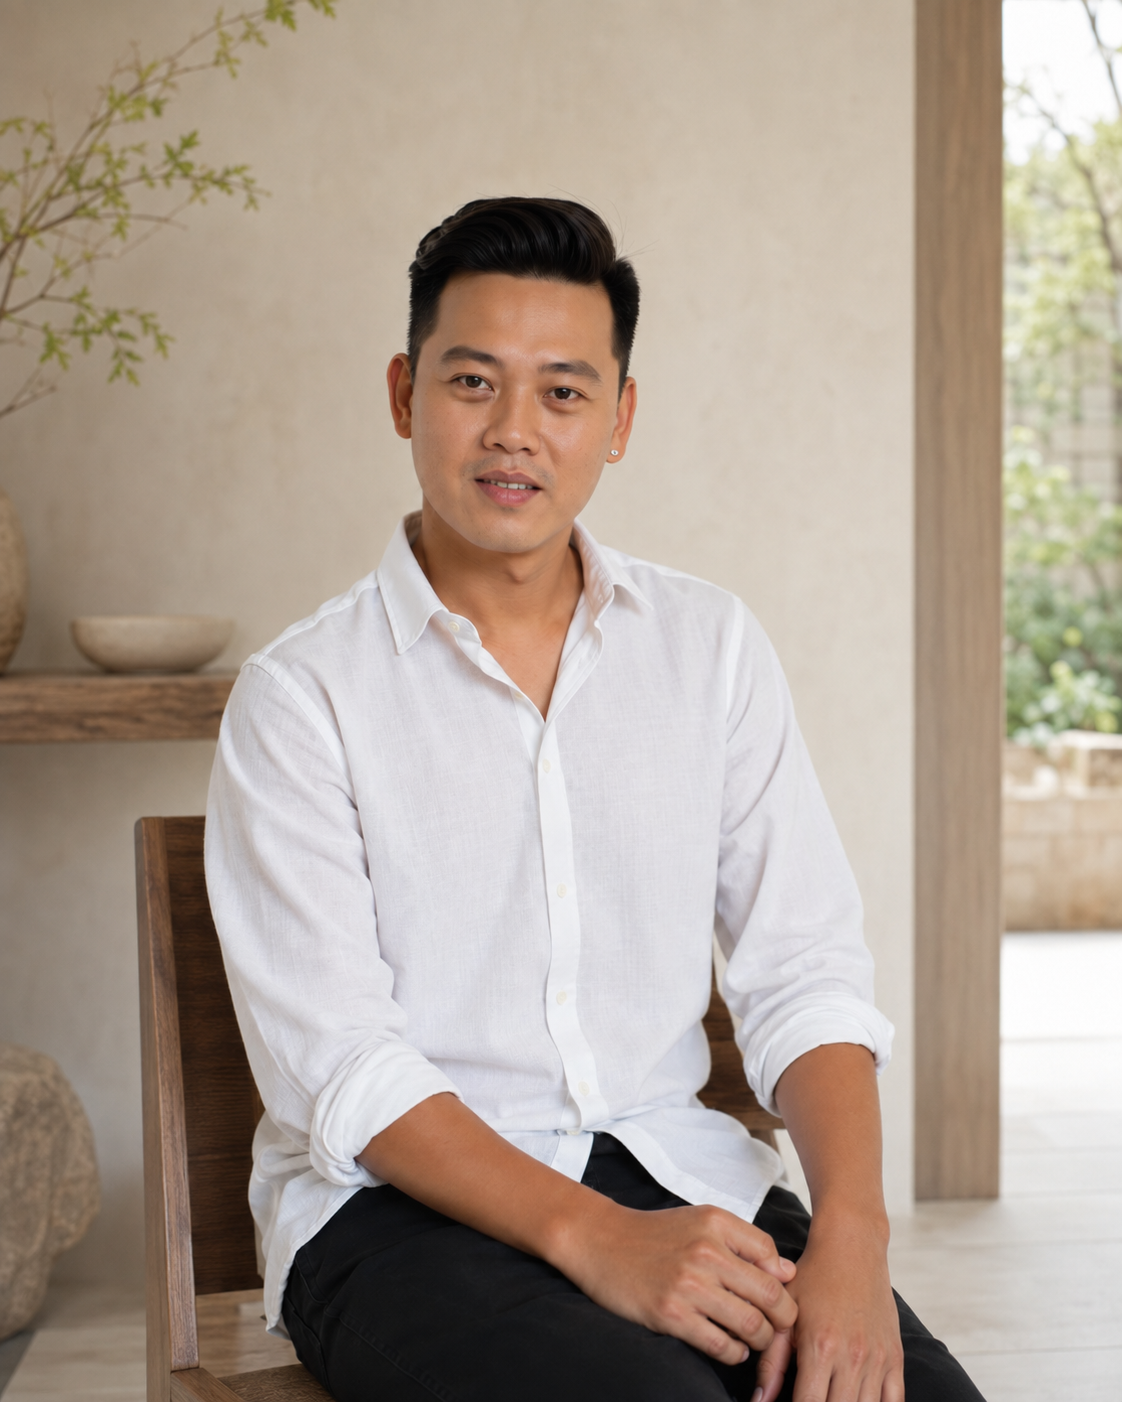
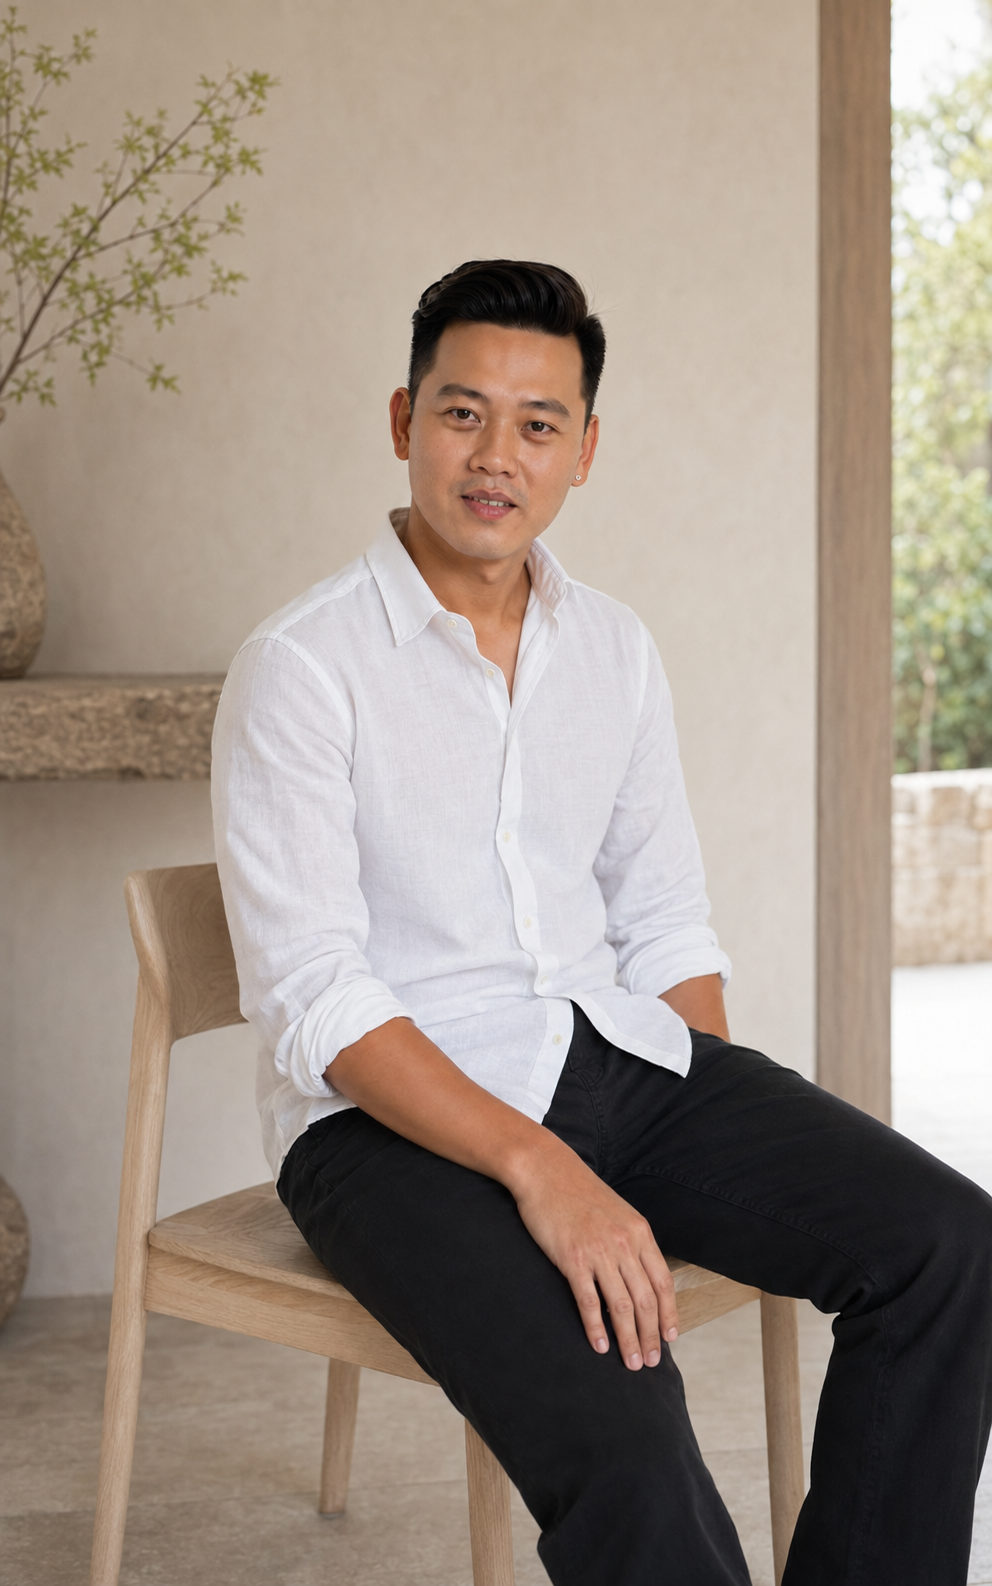
feat: integrate phuong-phap movement imagery

diff --git a/src/styles/phuong-phap.module.css b/src/styles/phuong-phap.module.css
@@ -25,6 +25,7 @@
 
 .heroSurface::before,
 .chillAtmosphere::before,
+.challengeAtmosphere::before,
 .realityAtmosphere::before {
   position: absolute;
   z-index: 0;
@@ -100,14 +101,15 @@
 }
 
 .chillAtmosphere,
+.challengeAtmosphere,
 .realityAtmosphere {
-  --phuong-phap-chill-field-image: url("/images/phuong-phap/02-chill-atmosphere.png");
   position: relative;
   isolation: isolate;
   overflow: hidden;
 }
 
 .chillAtmosphere {
+  --phuong-phap-chill-field-image: url("/images/phuong-phap/02-chill-atmosphere.png");
   background:
     radial-gradient(ellipse at 22% 36%, color-mix(in srgb, var(--essence-white-2026) 44%, transparent) 0, transparent 34%),
     linear-gradient(
@@ -122,6 +124,7 @@
 }
 
 .challengeAtmosphere {
+  --phuong-phap-challenge-field-image: url("/images/phuong-phap/07-thach-thuc-atmosphere.png");
   background:
     radial-gradient(ellipse at 84% 42%, color-mix(in srgb, var(--essence-ivory-2026) 30%, transparent) 0, transparent 32%),
     linear-gradient(
@@ -135,29 +138,55 @@
     );
 }
 
-.chillAtmosphere::before {
-  top: -8rem;
-  left: max(-20vw, -18rem);
-  width: min(88vw, 76rem);
-  height: min(90vw, 72rem);
-  opacity: 0.54;
-  background-image: var(--phuong-phap-chill-field-image);
-  background-position: center center;
+.challengeAtmosphere::before {
+  top: -6rem;
+  right: max(-19vw, -17rem);
+  width: min(101vw, 88rem);
+  height: min(102vw, 84rem);
+  opacity: 0.42;
+  background-image: var(--phuong-phap-challenge-field-image);
+  background-position: 57% 49%;
   -webkit-mask-image: radial-gradient(
-    ellipse 48% 46% at 52% 42%,
+    ellipse 43% 53% at 66% 44%,
     #000 0%,
-    #000 26%,
-    rgba(0, 0, 0, 0.78) 42%,
-    rgba(0, 0, 0, 0.3) 60%,
-    transparent 78%
+    #000 34%,
+    rgba(0, 0, 0, 0.78) 51%,
+    rgba(0, 0, 0, 0.32) 70%,
+    transparent 84%
   );
   mask-image: radial-gradient(
-    ellipse 48% 46% at 52% 42%,
+    ellipse 43% 53% at 66% 44%,
     #000 0%,
-    #000 26%,
-    rgba(0, 0, 0, 0.78) 42%,
-    rgba(0, 0, 0, 0.3) 60%,
-    transparent 78%
+    #000 34%,
+    rgba(0, 0, 0, 0.78) 51%,
+    rgba(0, 0, 0, 0.32) 70%,
+    transparent 84%
+  );
+}
+
+.chillAtmosphere::before {
+  top: -10rem;
+  left: max(-23vw, -21rem);
+  width: min(101vw, 86rem);
+  height: min(103vw, 82rem);
+  opacity: 0.49;
+  background-image: var(--phuong-phap-chill-field-image);
+  background-position: 48% 46%;
+  -webkit-mask-image: radial-gradient(
+    ellipse 53% 51% at 52% 42%,
+    #000 0%,
+    #000 29%,
+    rgba(0, 0, 0, 0.78) 46%,
+    rgba(0, 0, 0, 0.3) 66%,
+    transparent 84%
+  );
+  mask-image: radial-gradient(
+    ellipse 53% 51% at 52% 42%,
+    #000 0%,
+    #000 29%,
+    rgba(0, 0, 0, 0.78) 46%,
+    rgba(0, 0, 0, 0.3) 66%,
+    transparent 84%
   );
 }
 
@@ -177,28 +206,28 @@
 }
 
 .realityAtmosphere::before {
-  top: -7rem;
-  left: max(-16vw, -14rem);
-  width: min(92vw, 80rem);
-  height: min(94vw, 76rem);
-  opacity: 0.6;
+  top: -9rem;
+  left: max(-19vw, -17rem);
+  width: min(105vw, 91rem);
+  height: min(108vw, 86rem);
+  opacity: 0.55;
   background-image: var(--phuong-phap-reality-field-image);
-  background-position: center center;
+  background-position: 53% 45%;
   -webkit-mask-image: radial-gradient(
-    ellipse 50% 47% at 50% 42%,
+    ellipse 56% 52% at 51% 42%,
     #000 0%,
-    #000 30%,
-    rgba(0, 0, 0, 0.82) 46%,
-    rgba(0, 0, 0, 0.32) 64%,
-    transparent 80%
+    #000 32%,
+    rgba(0, 0, 0, 0.82) 49%,
+    rgba(0, 0, 0, 0.32) 69%,
+    transparent 86%
   );
   mask-image: radial-gradient(
-    ellipse 50% 47% at 50% 42%,
+    ellipse 56% 52% at 51% 42%,
     #000 0%,
-    #000 30%,
-    rgba(0, 0, 0, 0.82) 46%,
-    rgba(0, 0, 0, 0.32) 64%,
-    transparent 80%
+    #000 32%,
+    rgba(0, 0, 0, 0.82) 49%,
+    rgba(0, 0, 0, 0.32) 69%,
+    transparent 86%
   );
 }
 
@@ -387,7 +416,9 @@
 }
 
 .doorKenjiImage {
-  object-position: 50% 29%;
+  object-position: 50% 24%;
+  transform: scale(1.12);
+  transform-origin: 50% 24%;
 }
 
 .doorSelfImage {
@@ -457,7 +488,7 @@
   }
 
   .doorKenji.imageSlot {
-    aspect-ratio: 5 / 6;
+    aspect-ratio: 5 / 7;
   }
 
   .doorSelf.imageSlot {
@@ -505,52 +536,77 @@
   }
 
   .chillAtmosphere::before {
-    top: 1rem;
-    left: -8rem;
-    width: calc(100% + 16rem);
-    height: 32rem;
-    opacity: 0.44;
-    background-position: 66% center;
+    top: -1rem;
+    left: -9rem;
+    width: calc(100% + 18rem);
+    height: 37rem;
+    opacity: 0.4;
+    background-position: 61% 46%;
     -webkit-mask-image: radial-gradient(
-      ellipse 48% 43% at 56% 38%,
+      ellipse 54% 49% at 56% 38%,
       #000 0%,
-      #000 22%,
-      rgba(0, 0, 0, 0.68) 40%,
-      rgba(0, 0, 0, 0.24) 58%,
-      transparent 76%
+      #000 25%,
+      rgba(0, 0, 0, 0.68) 44%,
+      rgba(0, 0, 0, 0.24) 64%,
+      transparent 82%
     );
     mask-image: radial-gradient(
-      ellipse 48% 43% at 56% 38%,
+      ellipse 54% 49% at 56% 38%,
       #000 0%,
-      #000 22%,
-      rgba(0, 0, 0, 0.68) 40%,
-      rgba(0, 0, 0, 0.24) 58%,
-      transparent 76%
+      #000 25%,
+      rgba(0, 0, 0, 0.68) 44%,
+      rgba(0, 0, 0, 0.24) 64%,
+      transparent 82%
+    );
+  }
+
+  .challengeAtmosphere::before {
+    top: -2rem;
+    right: -10rem;
+    width: calc(100% + 20rem);
+    height: 38rem;
+    opacity: 0.38;
+    background-position: 57% 46%;
+    -webkit-mask-image: radial-gradient(
+      ellipse 49% 51% at 68% 40%,
+      #000 0%,
+      #000 28%,
+      rgba(0, 0, 0, 0.74) 45%,
+      rgba(0, 0, 0, 0.26) 64%,
+      transparent 82%
+    );
+    mask-image: radial-gradient(
+      ellipse 49% 51% at 68% 40%,
+      #000 0%,
+      #000 28%,
+      rgba(0, 0, 0, 0.74) 45%,
+      rgba(0, 0, 0, 0.26) 64%,
+      transparent 82%
     );
   }
 
   .realityAtmosphere::before {
-    top: 0;
-    left: -9rem;
-    width: calc(100% + 18rem);
-    height: 36rem;
-    opacity: 0.5;
-    background-position: 58% center;
+    top: -1rem;
+    left: -10rem;
+    width: calc(100% + 20rem);
+    height: 41rem;
+    opacity: 0.46;
+    background-position: 57% 43%;
     -webkit-mask-image: radial-gradient(
-      ellipse 50% 44% at 58% 38%,
+      ellipse 56% 50% at 58% 38%,
       #000 0%,
-      #000 28%,
-      rgba(0, 0, 0, 0.72) 44%,
-      rgba(0, 0, 0, 0.26) 62%,
-      transparent 78%
+      #000 31%,
+      rgba(0, 0, 0, 0.72) 48%,
+      rgba(0, 0, 0, 0.26) 68%,
+      transparent 85%
     );
     mask-image: radial-gradient(
-      ellipse 50% 44% at 58% 38%,
+      ellipse 56% 50% at 58% 38%,
       #000 0%,
-      #000 28%,
-      rgba(0, 0, 0, 0.72) 44%,
-      rgba(0, 0, 0, 0.26) 62%,
-      transparent 78%
+      #000 31%,
+      rgba(0, 0, 0, 0.72) 48%,
+      rgba(0, 0, 0, 0.26) 68%,
+      transparent 85%
     );
   }
 }

diff --git a/src/pages/phuong-phap.tsx b/src/pages/phuong-phap.tsx
@@ -371,7 +371,7 @@ export default function PhuongPhapPage() {
           </section>
 
           <section className={`${styles.movementScene} ${styles.challengeAtmosphere} px-6 py-28 md:px-8 md:py-40 lg:py-[10rem]`}>
-            <div className="mx-auto max-w-[1120px]">
+            <div className={`${styles.atmosphereContent} mx-auto max-w-[1120px]`}>
               <div
                 className={`${styles.reveal} grid gap-8 md:grid-cols-12`}
                 data-phuong-phap-reveal
